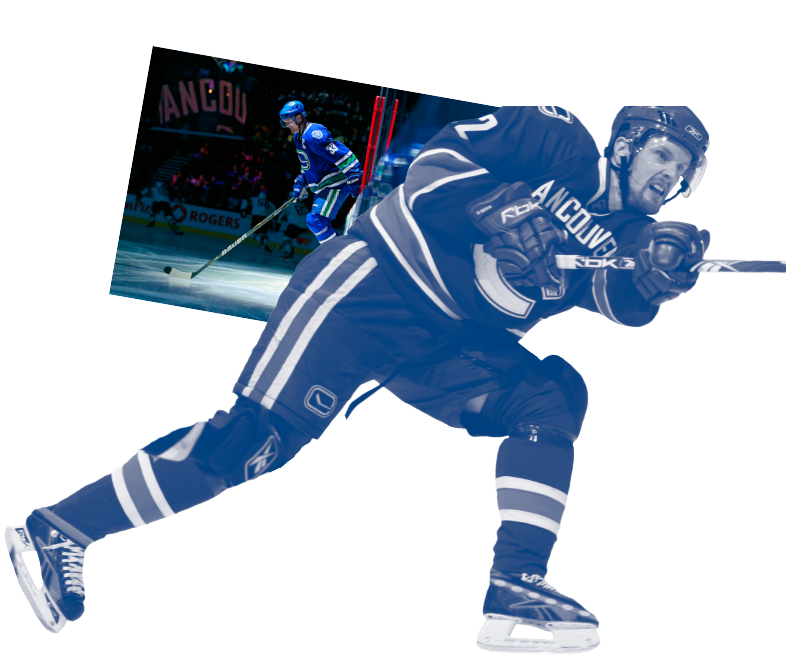
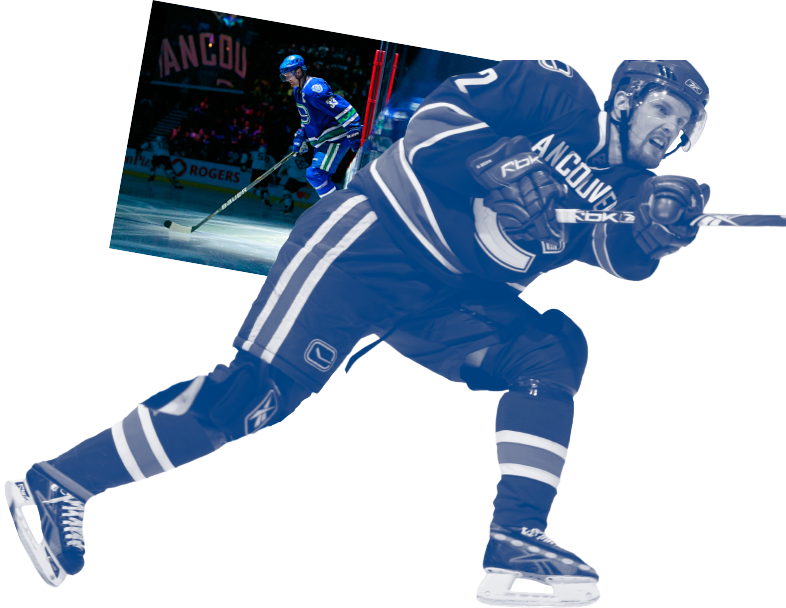
props all working on the larger screensize

diff --git a/index.html b/index.html
@@ -69,7 +69,6 @@
             <h1 class="agency">1000 Games</h1>
             <h2 class="agency"><span>Henrik Sedin</span></h2>
             
-            <div id="trigger01-bookmark" callback="toggleYoungBookmark" class="trigger"></div>
             <div class="leadin agenda">
               <p>scroll down to discover more</p>
               <img src="img/ui/down-arrow.png">
@@ -89,8 +88,6 @@
                 <p class="agenda">Drafted 3rd overall at the NHL Entry Draft</p>
               </div>
             </div>
-            
-            <div id="trigger02-clipping" callback="fadeToggle" target="p01" class="trigger"></div>
           </div>
         </section>
         
@@ -99,12 +96,14 @@
             <div class="year agencyb">
               <span id="y00">2000</span>
             </div>
-            <div class="prop" id="p01"></div>
+
+            <div class="prop" id="p01" data-2250="opacity:0;" data-2350="opacity:1;"></div>
             <div class="prop" id="p02">
               <div class="xo-33"></div>
               <div class="xo-22"></div>
             </div>
-            <div class="prop" id="p03"></div>
+            <div class="prop" id="p03" data-3000="right:-686px;" data3100="right:0;"></div>
+
             <div class="point left" id="t2">
               <div class="o"><img src="img/ui/timeline-bip-dark.png"></div>
               <div class="leash"></div>
@@ -113,12 +112,11 @@
                 <p class="agenda">Played his first game against the Philadelphia Flyers. Henrik and Daniel became the fourth pair of twins to play in the NHL</p>
               </div>
             </div>
-            <div id="trigger03-xo" callback="toggleXO" class="trigger"></div>
+
             <div class="point right" id="t3">
               <div class="o"><img src="img/ui/timeline-bip-dark.png"></div>
               <div class="leash"></div>
               <div class="content">
-                <div id="trigger04-skate" callback="slideToggle" target="p03" class="trigger"></div>
                 <h3><span class="agencyb">First NHL Assist</span> - <span class="agency">Oct.06.00</span></h3>
                 <p class="agenda">First assist in the NHL, scored against the Florida Panthers</p>
               </div>
@@ -146,13 +144,9 @@
               <span id="y06">2006</span>
             </div>
             
-            <div id="trigger05-firstgoal" callback="fadeToggle" target="p04" class="trigger"></div>
-            <div id="trigger06-markus" callback="fadeToggle" target="p05" class="trigger"></div>
-            <div id="trigger07-cutout" callback="fadeToggle" target="p06" class="trigger"></div>
-            
-            <div class="prop" id="p04"></div>
-            <div class="prop" id="p05"></div>
-            <div class="prop" id="p06"></div>
+            <div class="prop" id="p04" data-3800="opacity:0;" data-3900="opacity:1;"></div>
+            <div class="prop" id="p05" data-4000="opacity:0;" data-4100="opacity:1;"></div>
+            <div class="prop" id="p06" data-4300="opacity:0;" data-4400="opacity:1;"></div>
             
             <div class="point left" id="t5">
               <div class="o"><img src="img/ui/timeline-bip-dark.png"></div>
@@ -209,13 +203,14 @@
         <section id="s6" class="dark">
           <div class="timeline">
             
-            <div id="trigger10-allstarpic" callback="fadeToggle" target="p07" class="trigger"></div>
-            <div id="trigger11-andre" callback="fadeToggle" target="p08" class="trigger"></div>
-            <div id="trigger12-allstarcutout" callback="fadeToggle" target="p09" class="trigger"></div>
+            <div class="year agencyb">
+              <span id="y07">2007</span>
+              <span id="y08">2008</span>
+            </div>
             
-            <div class="prop" id="p07"></div>
-            <div class="prop" id="p08"></div>
-            <div class="prop" id="p09"></div>
+            <div class="prop" id="p07" data-7300="opacity:0;" data-7400="opacity:1;"></div>
+            <div class="prop" id="p08" data-7100="opacity:0;" data-7200="opacity:1;"></div>
+            <div class="prop" id="p09" data-7500="opacity:0;" data-7600="opacity:1;"></div>
             
             <div class="point left" id="t8">
               <div class="o"><img src="img/ui/timeline-bip.png"></div>
@@ -263,13 +258,13 @@
         <section id="s8" class="light">
           <div class="timeline">
             
-            <div id="trigger13-0119" callback="fadeToggle" target="p11" class="trigger"></div>
-            <div id="trigger14-a" callback="fadeToggle" target="p10" class="trigger"></div>
-            <div id="trigger15-swedes" callback="fadeToggle" target="p12" class="trigger"></div>
+            <div class="year agencyb">
+              <span id="y09">2009</span>
+            </div>
             
-            <div class="prop" id="p10"></div>
-            <div class="prop" id="p11"><span class="agencyb">01 19</span></div>
-            <div class="prop" id="p12"></div>
+            <div class="prop" id="p10" data-10000="opacity:0;" data-10100="opacity:1;"></div>
+            <div class="prop" id="p11" data-9500="opacity:0;" data-9600="opacity:1;"><span class="agencyb">01 19</span></div>
+            <div class="prop" id="p12" data-10300="opacity:0;" data-10400="opacity:1;"></div>
             <div class="prop" id="p13"></div>
             
             <div class="point left" id="t11">
@@ -309,14 +304,10 @@
             </div>
           </div>
           <div class="timeline">
-            
-            <div id="trigger16-hospital" callback="fadeToggle" target="p14" class="trigger"></div>
-            <div id="trigger17-sign" callback="fadeToggle" target="p15" class="trigger"></div>
-            <div id="trigger18-assists" callback="slideToggle" target="p16" class="trigger"></div>
-            
-            <div class="prop" id="p14"></div>
-            <div class="prop" id="p15"></div>
-            <div class="prop" id="p16"></div>
+                        
+            <div class="prop" id="p14" data-11500="opacity:0;" data-11600="opacity:1;"></div>
+            <div class="prop" id="p15" data-11600="opacity:0;" data-11700="opacity:1;"></div>
+            <div class="prop" id="p16" data-11800="right:-686px;" data11890="right:0;"></div>
             
             <div class="point right" id="t14">
               <div class="o"><img src="img/ui/timeline-bip-dark.png"></div>
@@ -414,10 +405,8 @@
 
         <section id="s12" class="window dark">
           <div class="timeline">
-            
-            <div id="trigger19-c" callback="fadeToggle" target="p17" class="trigger"></div>
-            
-            <div class="prop" id="p17"></div>
+                        
+            <div class="prop" id="p17" data-15500="opacity:0;" data-15600="opacity:1;"></div>
             
             <div class="point right" id="t19">
               <div class="o"><img src="img/ui/timeline-bip.png"></div>
@@ -446,15 +435,15 @@
         <section id="s14" class="window dark">
           <div class="timeline">
             
-            <div id="trigger20-digits" callback="fadeToggle" target="p18" class="trigger"></div>
-            <div id="trigger21-stare" callback="fadeToggle" target="p19" class="trigger"></div>
-            <div id="trigger22-corner" callback="fadeToggle" target="p20" class="trigger"></div>
-            <div id="trigger23-intense" callback="fadeToggle" target="p21" class="trigger"></div>
+            <div class="year agencyb">
+              <span id="y13">2013</span>
+              <span id="y14">2014</span>
+            </div>
             
-            <div class="prop" id="p18"></div>
-            <div class="prop" id="p19"></div>
-            <div class="prop" id="p20"></div>
-            <div class="prop" id="p21"></div>
+            <div class="prop" id="p18" data-17500="opacity:0;" data-17600="opacity:1;"></div>
+            <div class="prop" id="p19" data-17500="opacity:0;" data-17600="opacity:1;"></div>
+            <div class="prop" id="p20" data-18100="opacity:0;" data-18200="opacity:1;"></div>
+            <div class="prop" id="p21" data-18100="opacity:0;" data-18200="opacity:1;"></div>
             
             <div class="point left" id="t21">
               <div class="o"><img src="img/ui/timeline-bip.png"></div>
@@ -486,6 +475,11 @@
         </section>
         
         <section id="s15" class="window dark">
+          
+          <div class="congrats">
+            <p class="line1 agencyb" data-18700="left:-100%;" data-19200="left:0;">Congratulations</p>
+            <p class="line2 agencyb" data-18700="right:-100%;" data-19200="right:0;">Henrik Sedin</p>
+          </div>
           
         </section>
 

diff --git a/css/mediaqueries.css b/css/mediaqueries.css
@@ -170,84 +170,23 @@
     left: 7%;
   }
   
-  #trigger02-clipping {
-    position: absolute;
-    top: 2350px;
+  #p18 {
+    left: 5%;
+    top: 18050px;
   }
   
-  #trigger08-parkyoung {
-    position: absolute;
-    top: 5100px;
+  #p19 {
+    right: 5%;
+    top: 17750px;
   }
   
-  #trigger09-toggleoldbookmark {
-    position: absolute;
-    top: 6900px;
+  #p20 {
+    top: 18700px;
   }
   
-  #trigger05-firstgoal {
-    position: absolute;
-    top: 3700px;
-  }
-  
-  #trigger06-markus {
-    position: absolute;
-    top: 4250px;
-  }
-  
-  #trigger07-cutout {
-    position: absolute;
-    top: 4650px;
-  }
-  
-  #trigger10-allstarpic {
-    position: absolute;
-    top: 7450px;
-  }
-  
-  #trigger11-andre {
-    position: absolute;
-    top: 7000px;
-  }
-  
-  #trigger12-allstarcutout {
-    position: absolute;
-    top: 7450px;
-  }
-  
-  #trigger13-0119 {
-    position: absolute;
-    top: 9500px;
-  }
-  
-  #trigger14-a {
-    position: absolute;
-    top: 10000px;
-  }
-  
-  #trigger15-swedes {
-    position: absolute;
-    top: 10500px;
-  }
-  
-  #trigger16-hospital {
-    position: absolute;
-    top: 11500px;
-  }
-  
-  #trigger17-sign {
-    position: absolute;
-    top: 11600px;
-  }
-  
-  #trigger18-assists {
-    position: absolute;
-    top: 11860px;
-  }
-  
-  #trigger19-c {
-    position: absolute;
-    top: 15500px;
+  #p21 {
+    top: 18500px;
+    right: 0;
   }
 
 }

diff --git a/css/main.css b/css/main.css
@@ -322,7 +322,6 @@ section.light {
 
 .timeline .prop {
   position: absolute;
-  display: none;
 }
 
 .quote-wrapper {
@@ -426,6 +425,18 @@ iframe {
   position: absolute;
 }
 
+.congrats {
+  font-size: 150px;
+  text-align: center;
+  position: relative;
+  top: 500px;
+}
+
+.congrats .line1, .congrats .line2 {
+  position: relative;
+  margin: 0;
+}
+
 #s2, #s3, #s4, #s5, #s6, #s8, #s9, #s10, #s12, #s13, #s14, #s15 {
   height: 1495px;
 }
@@ -517,6 +528,18 @@ iframe {
 
 #t20 {
   top: 150px;
+}
+
+#t21 {
+  top: 250px;
+}
+
+#t22 {
+  top: 500px;
+}
+
+#t23 {
+  top: 700px;
 }
 
 #y09 {
